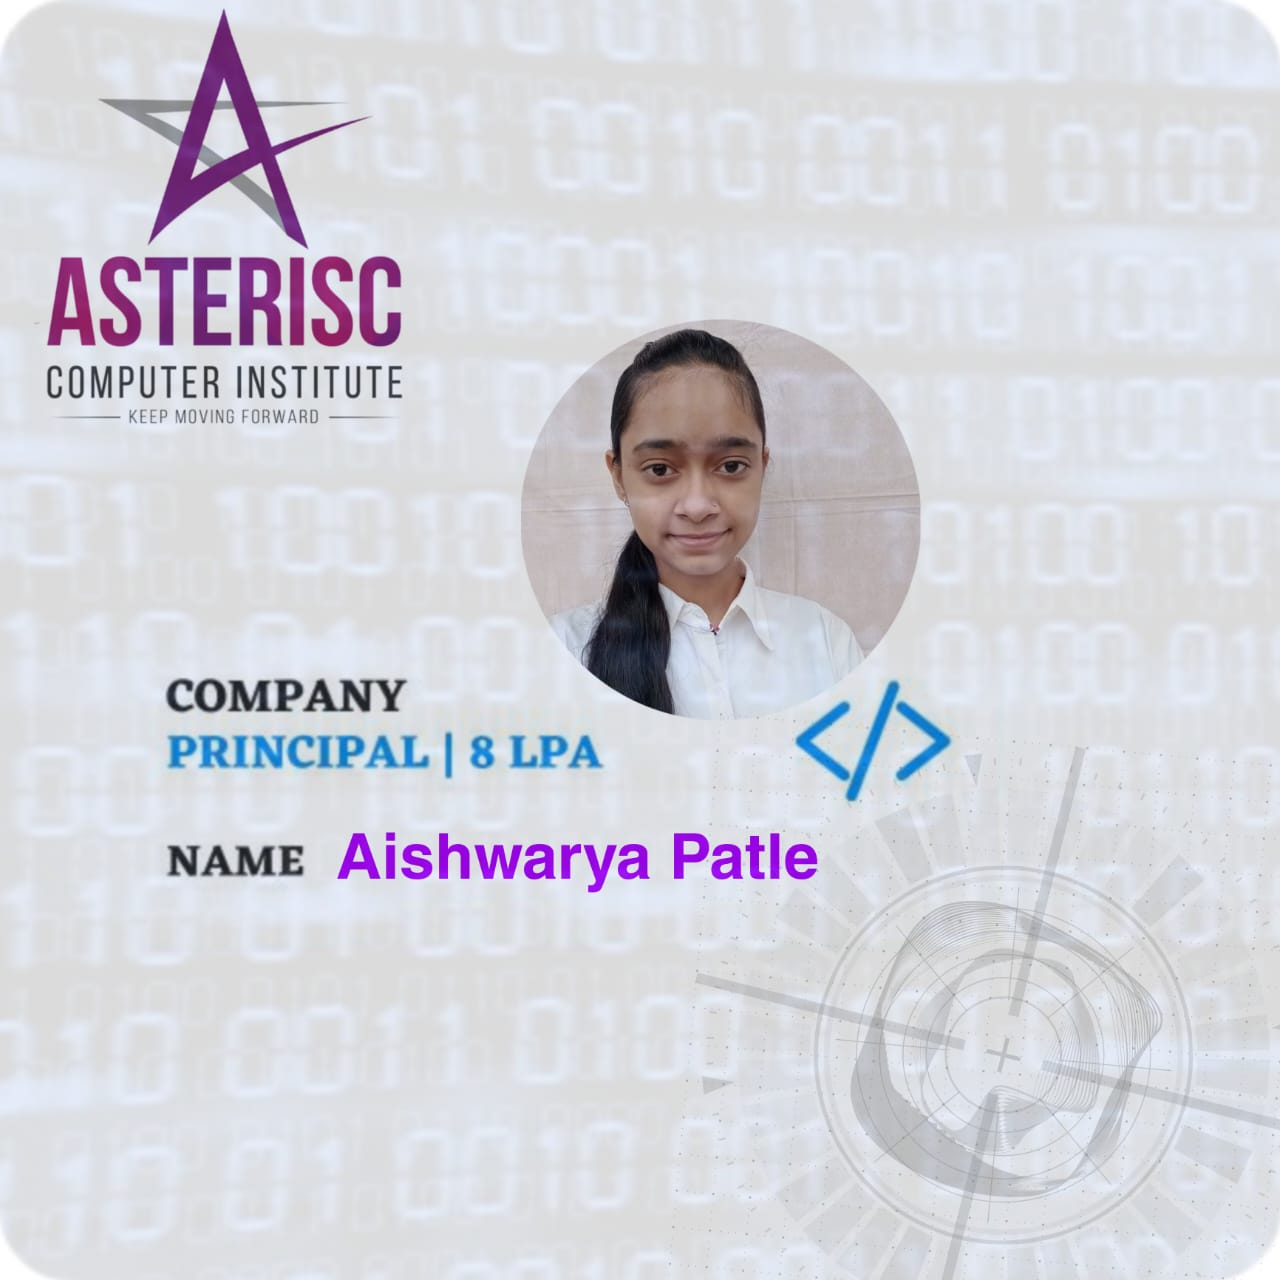
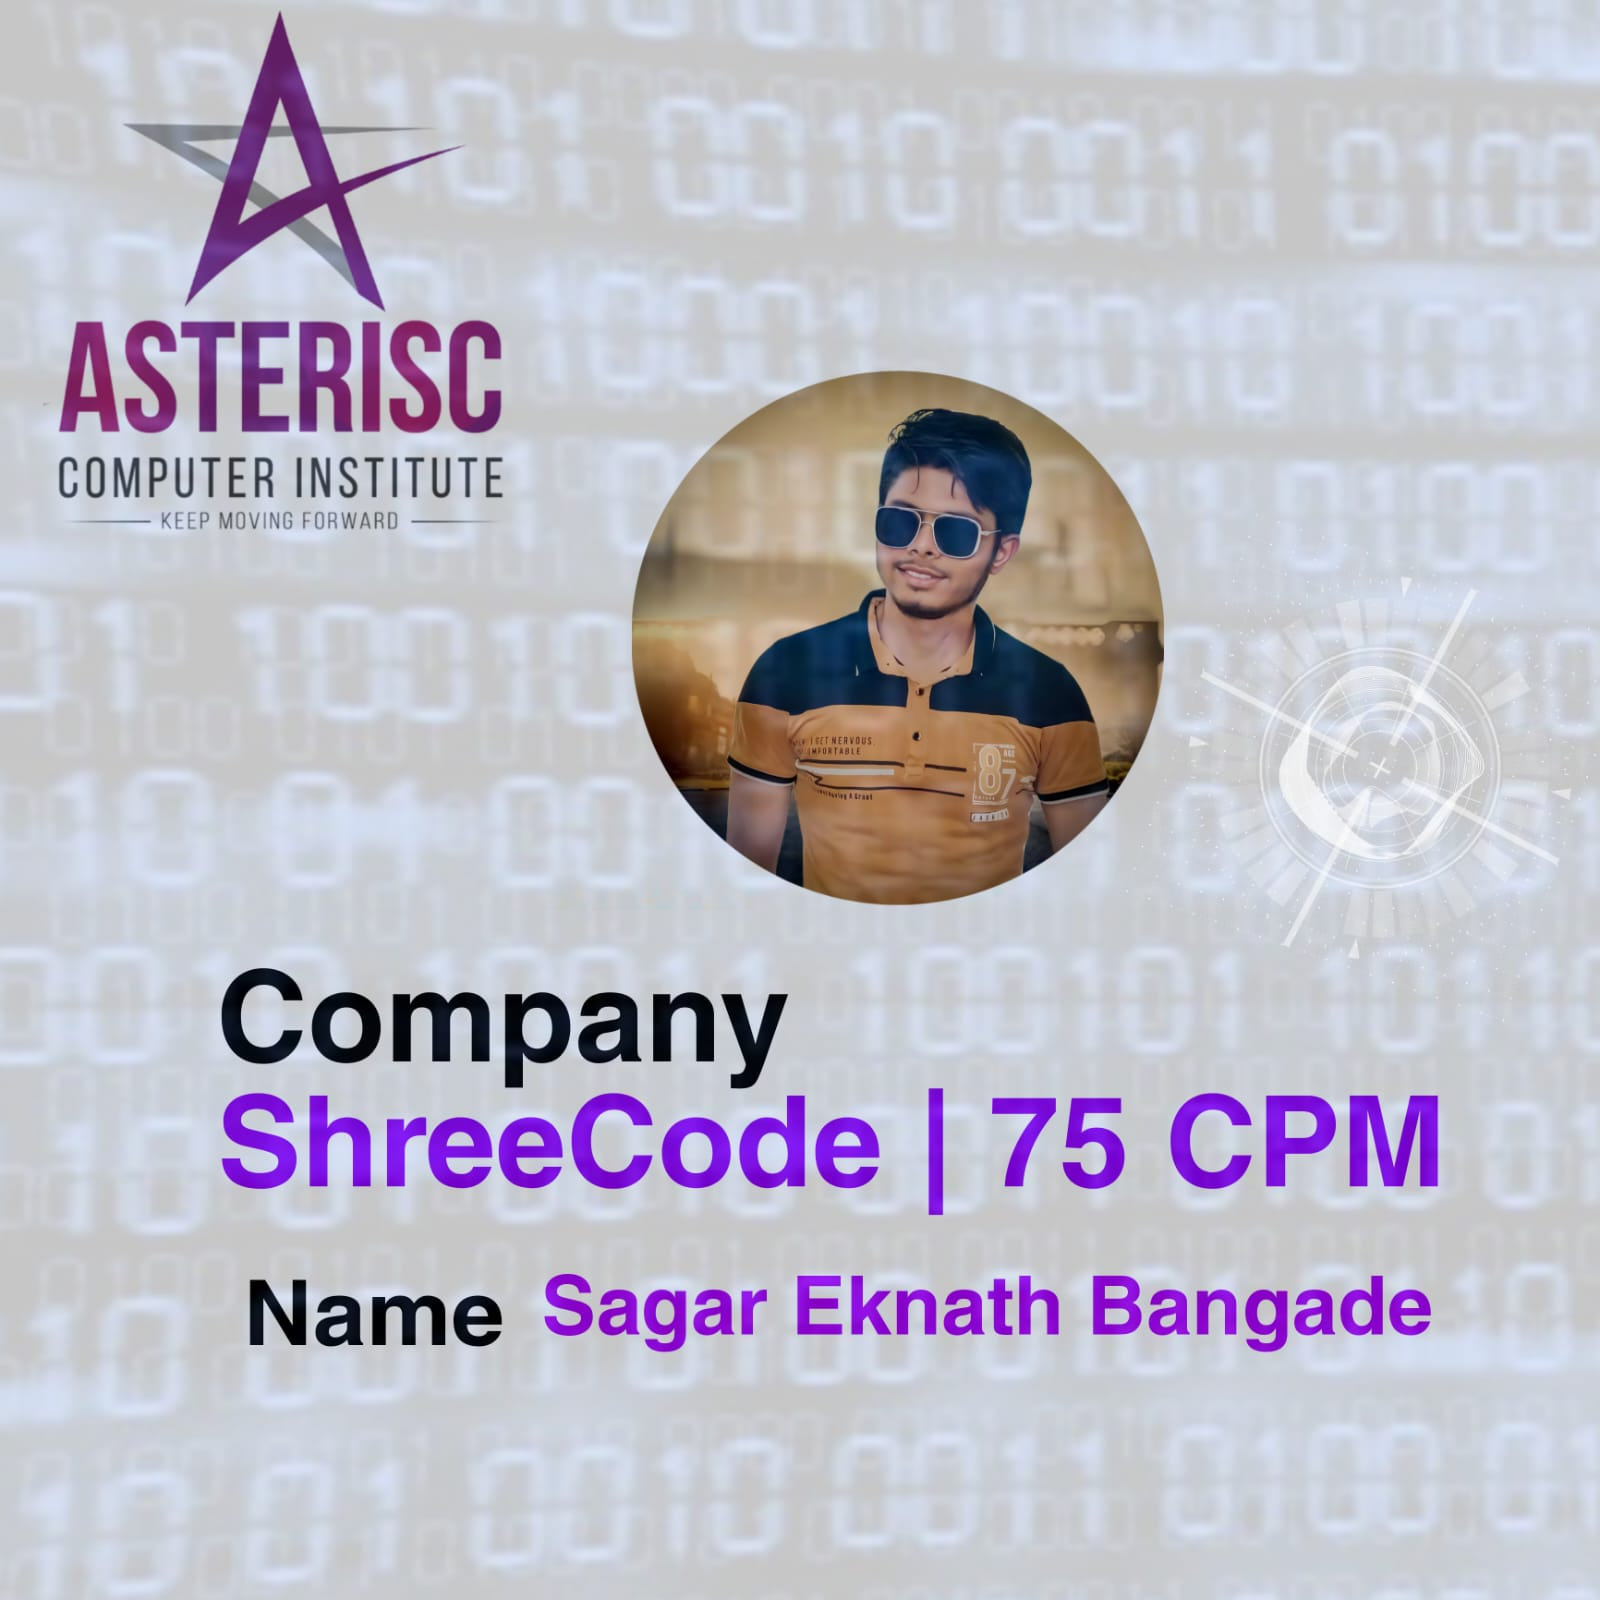
2

diff --git a/index.html b/index.html
@@ -144,16 +144,16 @@
             <img src="assets/img/placements/Asterisc_placement_package_1.jpg" class="img-fluid" style="padding-bottom: 15px;">
         </div>
           <div class="col-md-3 px-3 mx-auto">
-            <img src="assets/img/placements/Asterisc_placement_package_1.jpg" class="img-fluid" style="padding-bottom: 15px;">
+            <img src="assets/img/placements/Asterisc_placement_package_2.jpg" class="img-fluid" style="padding-bottom: 15px;">
         </div>
         <div class="col-md-3 px-3 mx-auto">
-            <img src="assets/img/placements/Asterisc_placement_package_1.jpg" class="img-fluid" style="padding-bottom: 15px;">
+            <img src="assets/img/placements/Asterisc_placement_package_2.jpg" class="img-fluid" style="padding-bottom: 15px;">
         </div>
         <div class="col-md-3 px-3 mx-auto">
-            <img src="assets/img/placements/Asterisc_placement_package_1.jpg" class="img-fluid" style="padding-bottom: 15px;">
+            <img src="assets/img/placements/Asterisc_placement_package_2.jpg" class="img-fluid" style="padding-bottom: 15px;">
         </div>
           <div class="col-md-3 px-3 mx-auto">
-            <img src="assets/img/placements/Asterisc_placement_package_1.jpg" class="img-fluid" style="padding-bottom: 15px;">
+            <img src="assets/img/placements/Asterisc_placement_package_2.jpg" class="img-fluid" style="padding-bottom: 15px;">
         </div>
           
 </div>
@@ -222,7 +222,7 @@
 <div class="col-lg-6 col-md-6 mt-4 mt-md-0" data-aos="fade-up" data-aos-delay="100">
 
 <div class="login-box">
-  <h2>Login</h2>
+  <h2>Contact Us</h2>
   <form>
     <div class="user-box">
       <input type="text" name="Name" required="">

diff --git a/assets/css/style.css b/assets/css/style.css
@@ -2143,9 +2143,9 @@ html {
 
 .login-box {
   position: absolute;
-  top: 50%;
+  top: 35%;
   left: 50%;
-  width: 400px;
+  width: 500px;
   padding: 40px;
   transform: translate(-50%, -50%);
   background: #ffffff80;
